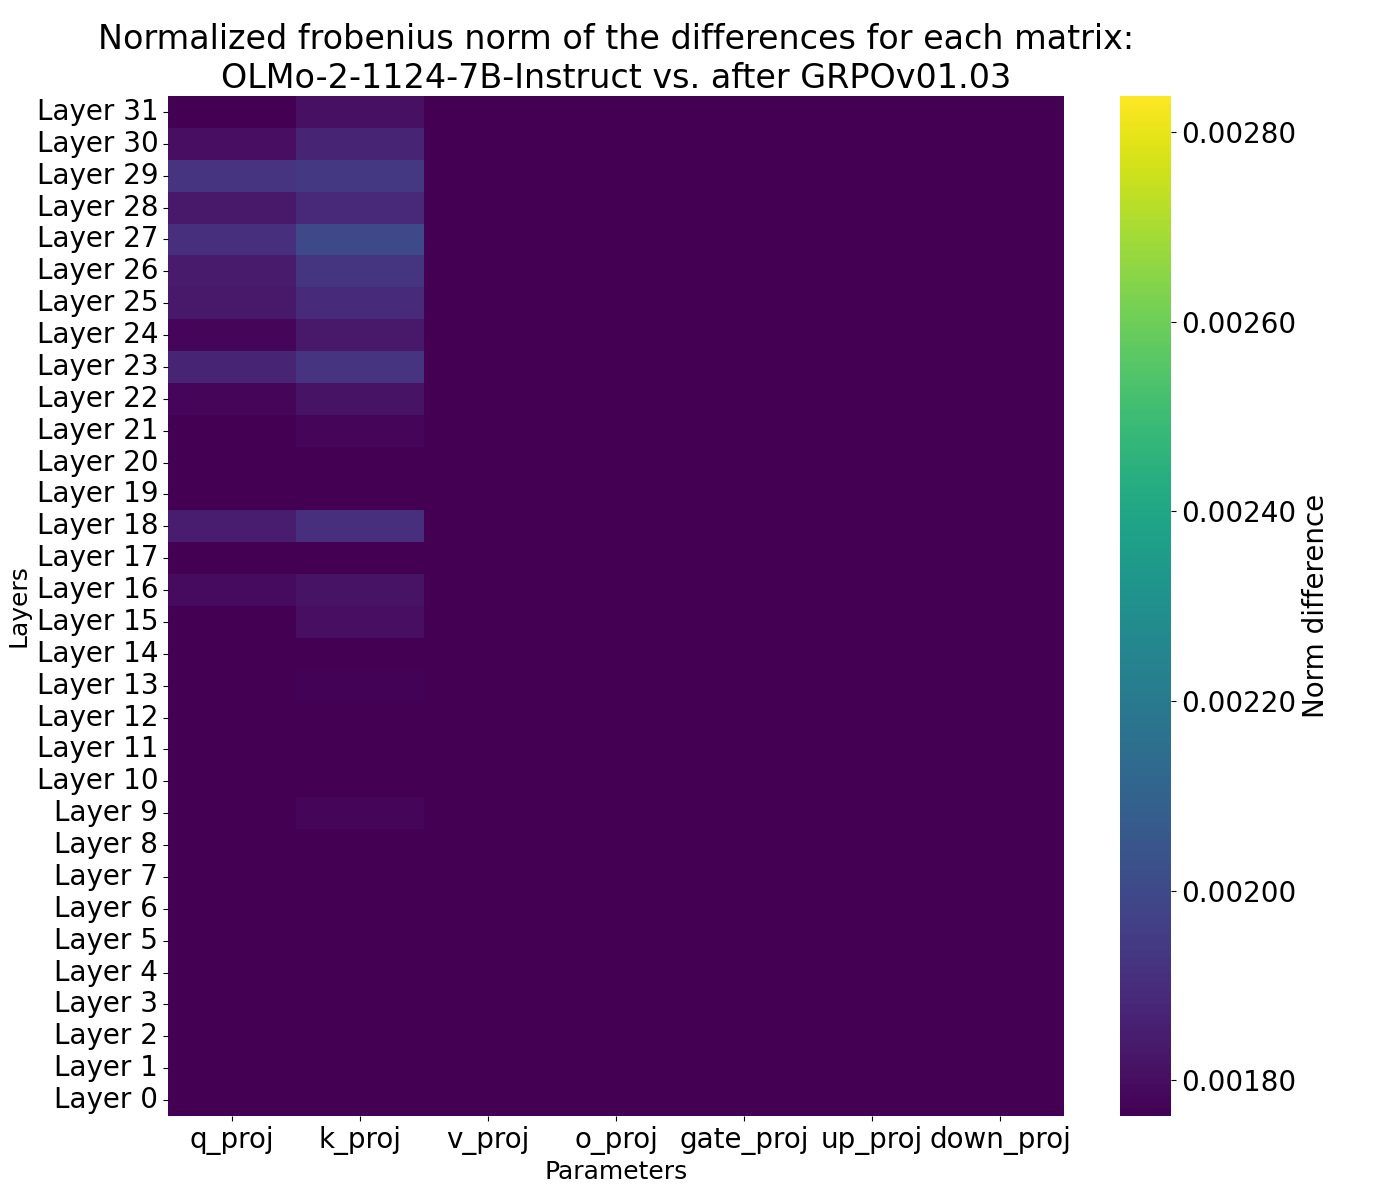
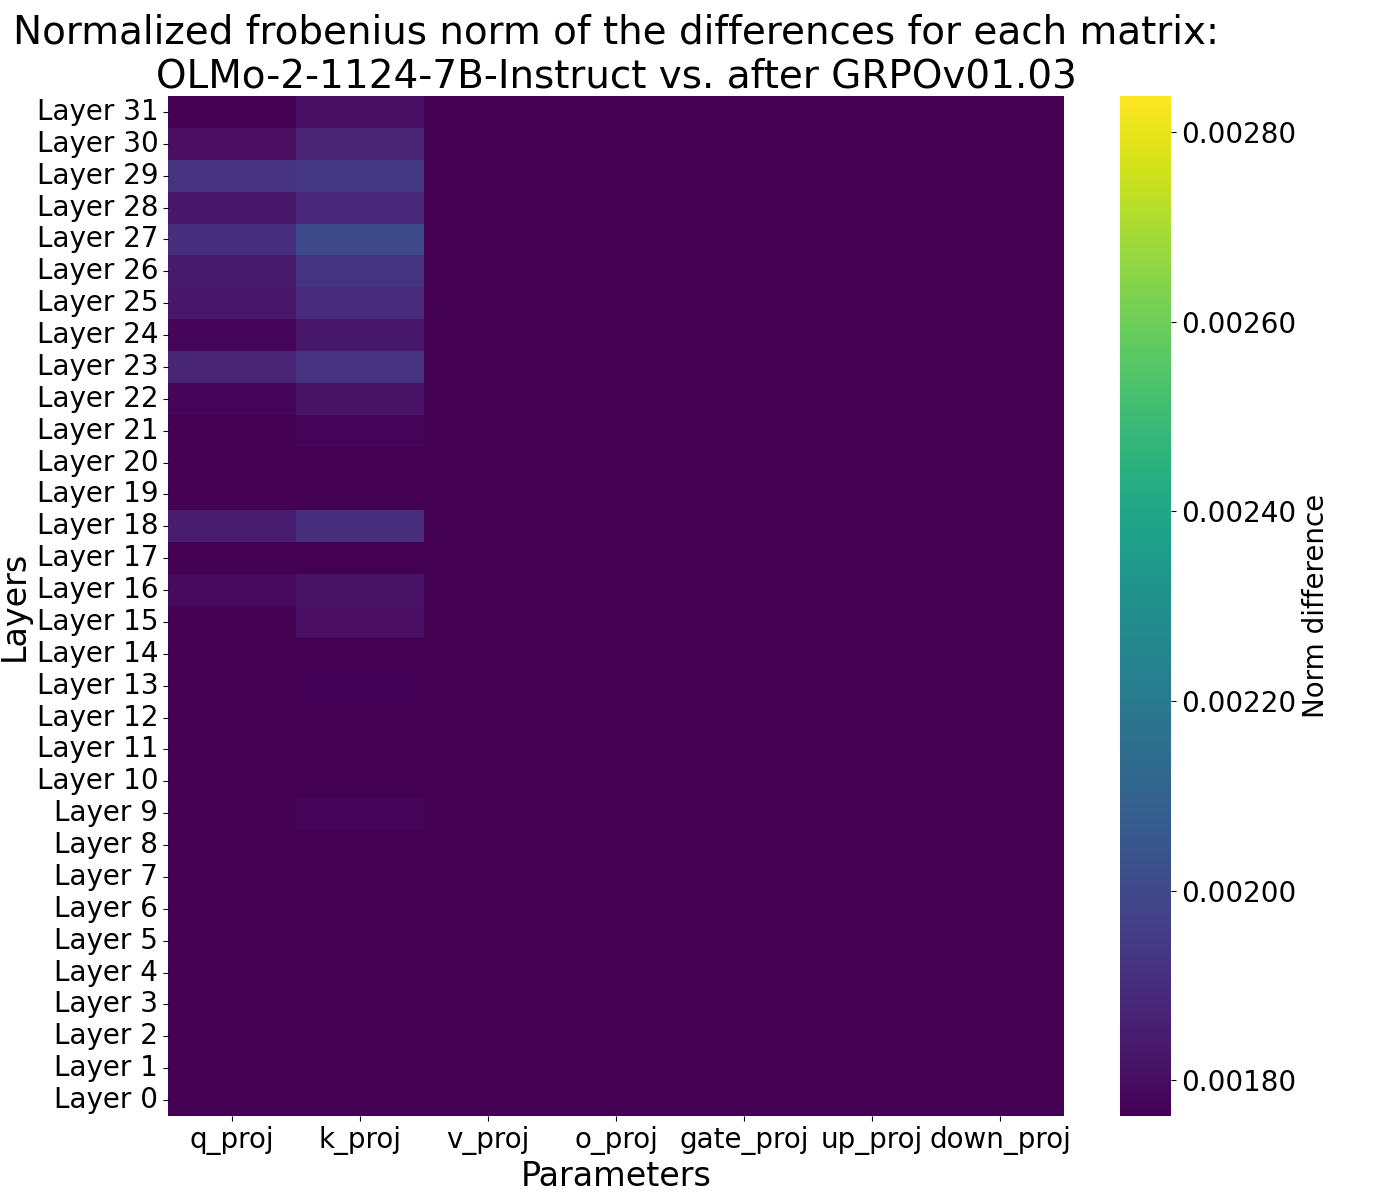
v6

Changed region(s): [[0.0, 0.0, 0.86, 0.0925], [0.3686, 0.9558, 0.4914, 0.9867], [0.0, 0.4625, 0.0307, 0.555]]

diff --git a/experiments/cross_alg_ckpt_weight_anlys.py b/experiments/cross_alg_ckpt_weight_anlys.py
@@ -61,7 +61,8 @@ def compare_norm_trajectories(sft_model_id, grpo_model_id, output_dir="figures/c
     })
     
     # Create the summary plot
-    plt.figure(figsize=(15, 10))
+    plt.figure(figsize=(10, 10))
+    
     
     # Plot data for both models
     for i, matrix in enumerate(matrices):
@@ -100,6 +101,10 @@ def compare_norm_trajectories(sft_model_id, grpo_model_id, output_dir="figures/c
                  linestyle='-', marker='s', linewidth=2.5, 
                  color=distinct_colors[i], 
                  label=f"{matrix} (GRPO)")
+
+    plt.yscale('log')
+    from matplotlib.ticker import ScalarFormatter
+    plt.gca().yaxis.set_major_formatter(ScalarFormatter(useOffset=False))
     
     # Customize the plot
     plt.title('Mean Norm Trajectory Comparison: SFT vs GRPO', fontsize=24, pad=20)
@@ -107,11 +112,29 @@ def compare_norm_trajectories(sft_model_id, grpo_model_id, output_dir="figures/c
     plt.ylabel('Mean Frobenius Norm', fontsize=20, labelpad=15)
     plt.grid(True)
     
-    # Add a legend with custom styling
-    legend = plt.legend(title="Matrix Type & Model", 
-                      fontsize=16, title_fontsize=18,
-                      bbox_to_anchor=(1.05, 1), 
-                      loc='upper left')
+    from matplotlib.lines import Line2D
+
+    # Create custom legend elements
+    matrix_legends = []
+    for i, matrix in enumerate(matrices):
+        matrix_legends.append(Line2D([0], [0], color=distinct_colors[i], lw=2, label=matrix))
+
+    model_legends = [
+        Line2D([0], [0], color='black', lw=2, linestyle='--', label='SFT'),
+        Line2D([0], [0], color='black', lw=2, linestyle='-', label='GRPO')
+    ]
+
+    # Create a legend for matrix types (colors)
+    first_legend = plt.legend(handles=matrix_legends, title="Matrix Type", 
+                            fontsize=16, title_fontsize=18,
+                            bbox_to_anchor=(1, 0.1), loc='lower right')
+    plt.gca().add_artist(first_legend)
+
+    # Create a second legend for model types (line styles)
+    plt.legend(handles=model_legends, title="Model", 
+            fontsize=16, title_fontsize=18,
+            bbox_to_anchor=(0.98, 0.55), loc='center right')
+
     
     plt.tight_layout()
     plt.savefig(f"{output_dir}/sft_vs_grpo_norm_comparison.png", dpi=300, bbox_inches="tight")

diff --git a/experiments/ckpt_weight_anlys.py b/experiments/ckpt_weight_anlys.py
@@ -88,8 +88,8 @@ def plot_results(results_dict, ft_model_id, revision, vmin, vmax):
   y_labels = [f"Layer {i}" for i in range(data.shape[0])]
   
   # Set font sizes
-  title_size = 24
-  label_size = 18
+  title_size = 28
+  label_size = 24
   tick_size = 20
   colorbar_size = 20
   
